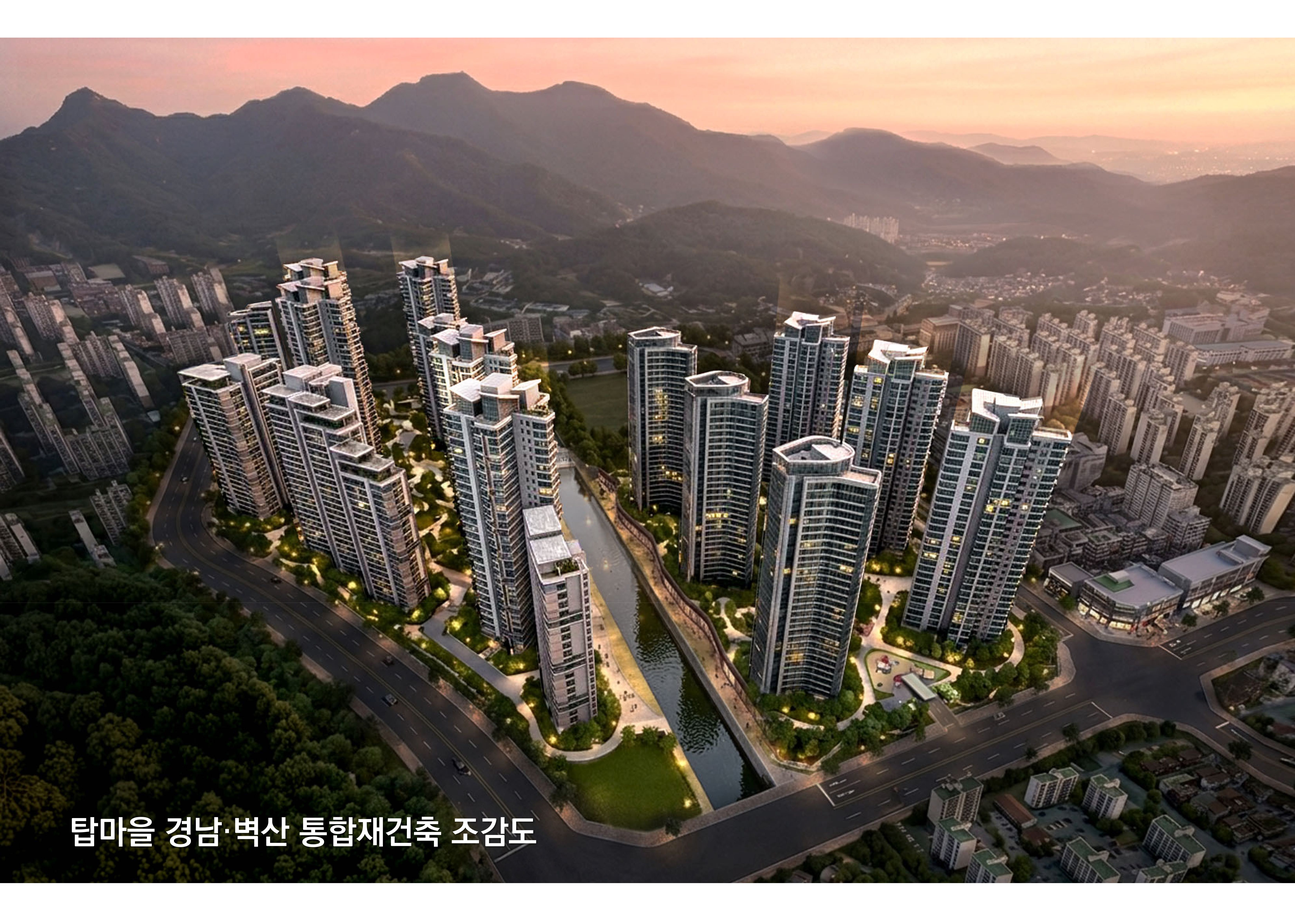
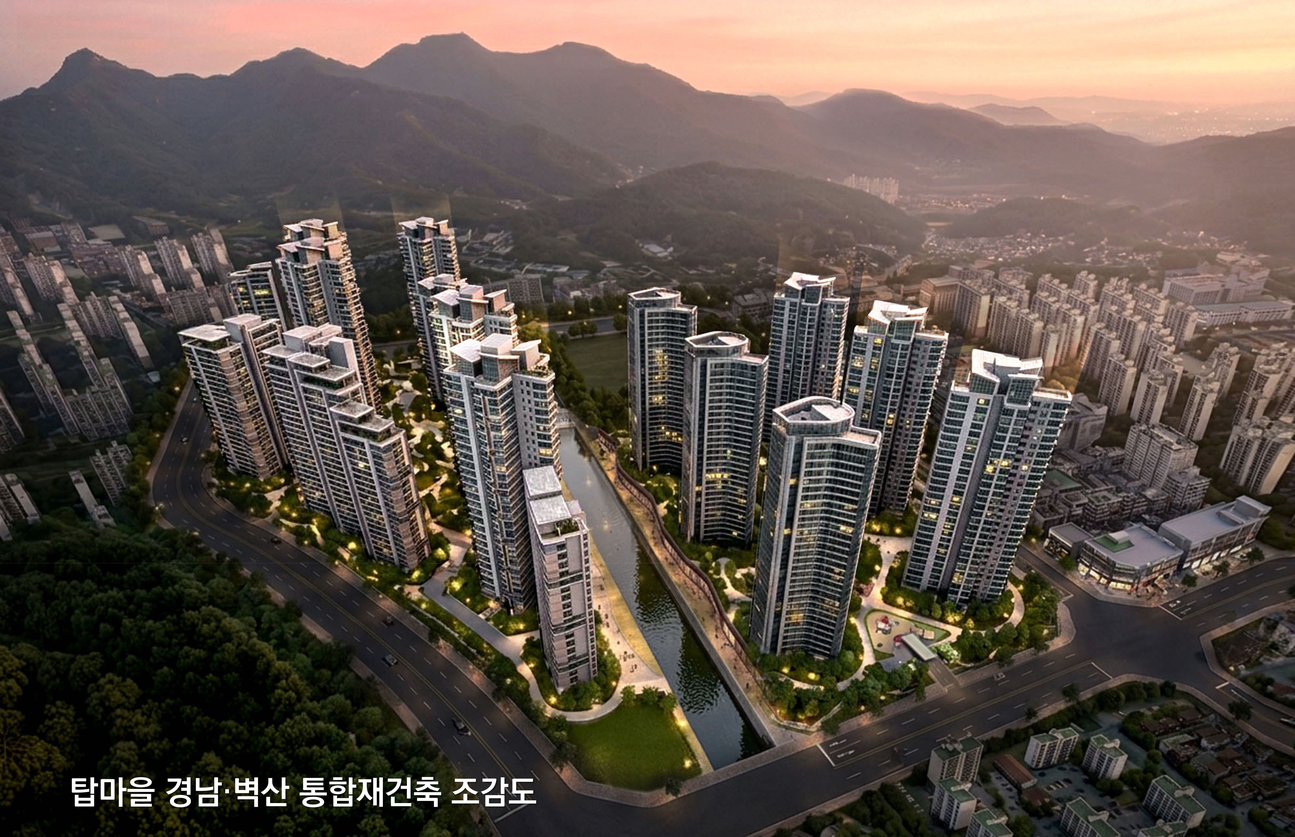
Deploy site from https://github.com/rearchive2026/re-archive-data/commit/52190c4a94f9e616363b4d7132a69786dd43f57a

diff --git a/index.html b/index.html
@@ -34,7 +34,7 @@
 
 
 
-  <meta property="og:image" content="https://topkn.org/assets/images/%ED%86%B5%ED%95%A9%EC%9E%AC%EA%B1%B4%EC%B6%95%EC%A1%B0%EA%B0%90%EB%8F%84.jpg">
+  <meta property="og:image" content="https://topkn.org/assets/images/%ED%86%B5%ED%95%A9%EC%9E%AC%EA%B1%B4%EC%B6%95%EC%A1%B0%EA%B0%90%EB%8F%84.jpg?v=20260610-crop">
   
 
 
@@ -214,7 +214,7 @@
 
 
 <div class="page__hero--overlay"
-  style="background-color: #000; background-image: linear-gradient(rgba(0, 0, 0, 0.5), rgba(0, 0, 0, 0.5)), url('/assets/images/%ED%86%B5%ED%95%A9%EC%9E%AC%EA%B1%B4%EC%B6%95%EC%A1%B0%EA%B0%90%EB%8F%84.jpg');"
+  style="background-color: #000; background-image: linear-gradient(rgba(0, 0, 0, 0.5), rgba(0, 0, 0, 0.5)), url('/assets/images/%ED%86%B5%ED%95%A9%EC%9E%AC%EA%B1%B4%EC%B6%95%EC%A1%B0%EA%B0%90%EB%8F%84.jpg?v=20260610-crop');"
 >
   
     <div class="wrapper">
